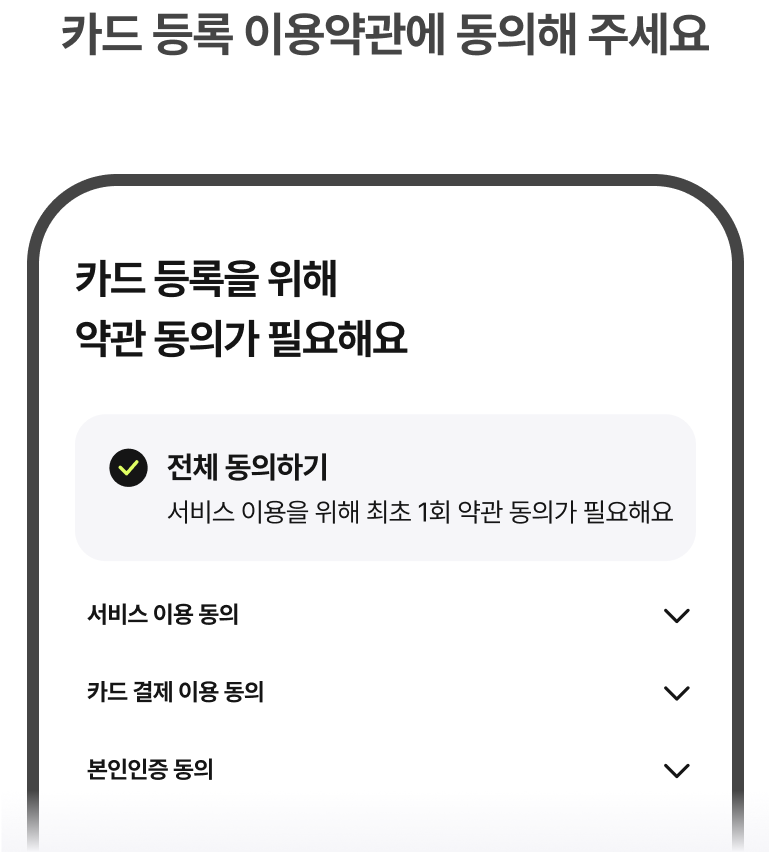
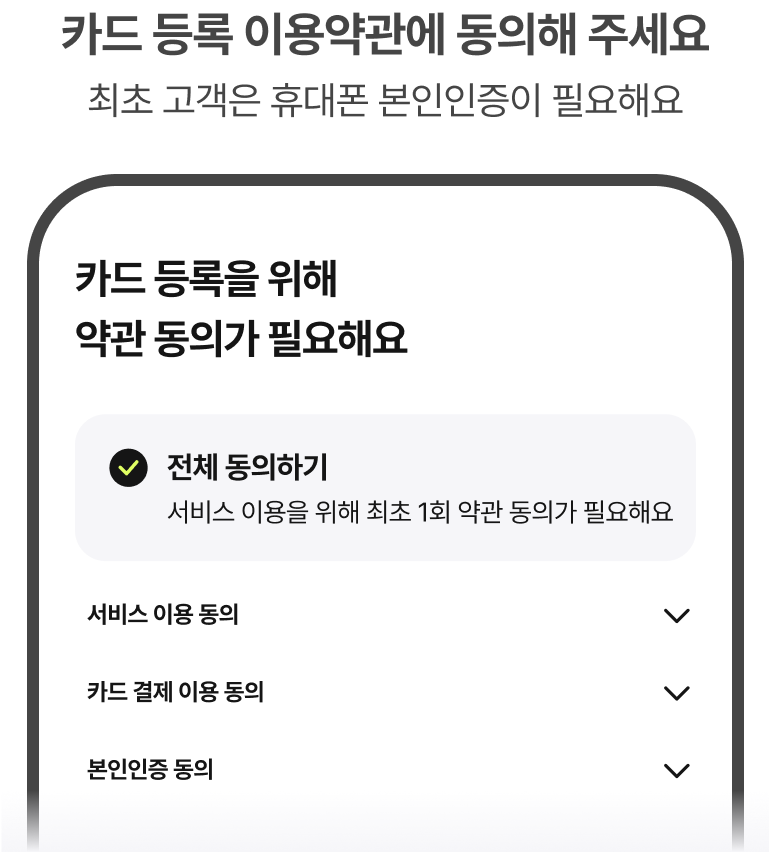
결제수단 등록 유도 프로모션 추가

Changed region(s): [[0.2185, 0.0938, 0.9051, 0.1562], [0.1248, 0.0938, 0.1873, 0.1562]]

diff --git a/apps/010pay/010pay-payment/css/promotion.css b/apps/010pay/010pay-payment/css/promotion.css
@@ -349,6 +349,7 @@
 
 .section {
   text-align: center;
+  overflow: visible;
 }
 .section .title {
   font-family: Pretendard;
@@ -1060,22 +1061,100 @@
   display: none;
 }
 #wrap.rroundPaymentReg .headline {
+  position: relative;
   margin: 0 auto;
   height: 530px;
   background: url(../images/promotion/rroundPaymentReg/main.png) no-repeat
     center / cover;
   text-align: center;
   padding-top: 60px;
+  overflow: hidden;
+}
+#wrap.rroundPaymentReg .headline::before {
+  content: "";
+  display: block;
+  position: absolute;
+  top: 160px;
+  left: 50%;
+  width: 90px;
+  height: 112px;
+  background: url(../images/promotion/rroundPaymentReg/main_bg_01.png) no-repeat
+    center / contain;
+    transform: translateX(-50%);
+    margin-left: 170px;
+}
+#wrap.rroundPaymentReg .headline::after {
+  content: "";
+  display: block;
+  position: absolute;
+  top: 266px;
+  left: 50%;
+  width: 70px;
+  height: 70px;
+  background: url(../images/promotion/rroundPaymentReg/main_bg_02.png) no-repeat center / contain;
+  transform: translateX(-50%);
+  margin-left: -170px;
 }
 #wrap.rroundPaymentReg #content,
 #wrap.rroundPaymentReg .sec {
   background: #030704;
 }
 #wrap.rroundPaymentReg .sec {
+  position: relative;
   padding: 40px 0;
+  overflow: hidden;
 }
 #wrap.rroundPaymentReg .sec:last-of-type {
   padding-bottom: 80px;
+}
+#wrap.rroundPaymentReg .section::before {  
+  content: "";
+  display: block;
+  position: absolute;
+  top: 977px;
+  left: 50%;
+  transform: translateX(-50%);
+  width: 121px;
+  height: 121px;
+  background: url(../images/promotion/rroundPaymentReg/sec01_bg_01.png) no-repeat center / contain;
+  margin-left: -170px;
+  z-index: 1;
+}
+#wrap.rroundPaymentReg .sec-1::after {  
+  content: "";
+  display: block;
+  position: absolute;
+  top: 125px;
+  right: 0;
+  width: 114px;
+  height: 118px;
+  background: url(../images/promotion/rroundPaymentReg/main_bg_01.png) no-repeat center / contain;
+  right: auto;
+  left: 50%;
+  transform: translateX(100px);
+}
+#wrap.rroundPaymentReg .sec-2::after {  
+  content: "";
+  display: block;
+  position: absolute;
+  top: 0px;
+  left: 0;
+  width: 248px;
+  height: 558px;
+  background: url(../images/promotion/rroundPaymentReg/sec02_bg_01.png) no-repeat center / contain;
+  z-index: -1;
+}
+#wrap.rroundPaymentReg .sec-3::after {  
+  content: "";
+  display: block;
+  position: absolute;
+  top: 0px;
+  left: 50%;
+  transform: translateX(-50%);
+  width: 100%;
+  height: 243px;
+  background: url(../images/promotion/rroundPaymentReg/sec03_bg_01.png) no-repeat center / contain;
+  z-index: -1;
 }
 #wrap.rroundPaymentReg .tab-scroll-wrap {
   overflow-x: auto;
@@ -1083,11 +1162,18 @@
   top: 0;
   z-index: 10;
   background: #3d3d3d;
+  width: 100%;
+  left: 0;
+  right: 0;
+  -webkit-transform: translateZ(0);
+  transform: translateZ(0);
 }
 #wrap.rroundPaymentReg .tab-buttons {
   display: inline-flex;
   min-width: max-content;
   width: 100%;
+  max-width: 343px;
+  margin: 0 auto;
   justify-content: space-around;
 }
 #wrap.rroundPaymentReg .tab-btn.on {
@@ -1140,11 +1226,29 @@
   margin-top: 8px;
 }
 #wrap.rroundPaymentReg .benefit-container {
+  overflow: hidden;
+  position: relative;
+  z-index: 1;
   background: rgba(148, 148, 148, 0.2);
   border-radius: 24px;
   padding: 32px 20px;
   width: calc(100% - 32px);
   max-width: 343px;
+
+}
+#wrap.rroundPaymentReg .benefit-container::after {
+  content: "";
+  position: absolute;
+  inset: 0;
+  border-radius: 24px;
+  padding: 1px; /* 보더 두께 */
+  background: linear-gradient(132.22deg, #B0B0B0 -2.47%, #4A4A4A 25.35%);
+  -webkit-mask: 
+    linear-gradient(#fff 0 0) content-box, 
+    linear-gradient(#fff 0 0);
+  -webkit-mask-composite: xor;
+          mask-composite: exclude;
+  pointer-events: none;
 }
 #wrap.rroundPaymentReg .benefit-list {
   display: flex;
@@ -1179,8 +1283,9 @@
 #wrap.rroundPaymentReg .benefit-item-text {
   font-family: Pretendard;
   font-weight: 700;
-  font-size: 14px;
+  font-size: 16px;
   line-height: 140%;
+  text-align: center;
   color: #fff;
 }
 #wrap.rroundPaymentReg .table-note {
@@ -1214,6 +1319,7 @@
 }
 
 #wrap.rroundPaymentReg .service-item {
+  position: relative;
   display: flex;
   align-items: center;
   background: rgba(148, 148, 148, 0.2);
@@ -1222,7 +1328,18 @@
   gap: 10px;
   width: 100%;
 }
-
+#wrap.rroundPaymentReg .service-item::after {
+content: "";
+    position: absolute;
+    inset: 0;
+    border-radius: 24px;
+    padding: 1px;
+    background: linear-gradient(132.22deg, #B0B0B0 -2.47%, #4A4A4A 25.35%);
+    -webkit-mask: linear-gradient(#fff 0 0) content-box, linear-gradient(#fff 0 0);
+    -webkit-mask-composite: xor;
+    mask-composite: exclude;
+    pointer-events: none;
+}
 #wrap.rroundPaymentReg .service-item-img {
   width: 70px;
   height: 70px;
@@ -1307,5 +1424,12 @@
 }
 #wrap.rroundPaymentReg .sec-3 .swiper-pagination-bullets.swiper-pagination-horizontal {
   bottom: 180px;
+}
+@media all and (max-width: 321px) {
+  .swiper-container .swiper-slide img {
+    max-width: 248px;
+    width: 100% !important;
+    height: auto !important;
+  }
 }
 /* //rroundPaymentReg */

diff --git a/apps/010pay/010pay-payment/html/pay/promotion/rroundPaymentReg/index.html b/apps/010pay/010pay-payment/html/pay/promotion/rroundPaymentReg/index.html
@@ -59,7 +59,7 @@
                   혜택 안내
                 </button>
                 <button type="button" data-target="sec-1" class="tab-btn">
-                  서비스 결제
+                  서비스 안내
                 </button>
                 <button type="button" data-target="sec-2" class="tab-btn">
                   계좌 등록
@@ -72,8 +72,8 @@
             <div class="sec sec-0 scroll-fade-up" id="sec-0">
               <span class="label">혜택 안내</span>
               <p class="title">
-                라운드페이에 계좌 · 카드<br />
-                연속 등록하면 로또 10장 드려요
+                라운드페이에 <strong>계좌 · 카드</strong><br />
+                <strong>연속 등록하면 로또 10장</strong> 드려요
               </p>
               <div>
                 <div class="benefit-container">
@@ -219,28 +219,28 @@
                   <div class="swiper-wrapper">
                     <div class="swiper-slide">
                       <img
-                        src="../../../../images/promotion/rroundPaymentReg/sec2-slide-01.png"
-                        alt="계좌 등록을 눌러주세요"
+                        src="../../../../images/promotion/rroundPaymentReg/sec3-slide-01.png"
+                        alt="카드 등록을 눌러주세요"
                         class=""
                       />
                     </div>
                     <div class="swiper-slide">
                       <img
-                        src="../../../../images/promotion/rroundPaymentReg/sec2-slide-02.png"
-                        alt="카드 등록 이용약관에 동의해 주세요"
+                        src="../../../../images/promotion/rroundPaymentReg/sec3-slide-02.png"
+                        alt="카드 등록 이용약관에 동의해 주세요 최초 고객은 휴대폰 본인인증이 필요해요"
                         class=""
                       />
                     </div>
                     <div class="swiper-slide">
                       <img
-                        src="../../../../images/promotion/rroundPaymentReg/sec2-slide-03.png"
-                        alt="내카드 정보를 입력해 주세요 최초 고객은 휴대폰 본인인증이 필요해요"
+                        src="../../../../images/promotion/rroundPaymentReg/sec3-slide-03.png"
+                        alt="내카드 정보를 입력해 주세요"
                         class=""
                       />
                     </div>
                     <div class="swiper-slide">
                       <img
-                        src="../../../../images/promotion/rroundPaymentReg/sec2-slide-04.png"
+                        src="../../../../images/promotion/rroundPaymentReg/sec3-slide-04.png"
                         alt="이어서 계좌를 등록해 주세요"
                         class=""
                       />
@@ -335,6 +335,31 @@
 
       targets.forEach((target) => observer.observe(target));
 
+      // 스크롤 위치에 따른 탭 버튼 활성화
+      function updateActiveTab() {
+        const sections = document.querySelectorAll('.sec');
+        const tabButtons = document.querySelectorAll('.tab-btn');
+        const scrollPosition = window.scrollY + 100; // 100px 오프셋
+
+        sections.forEach((section, index) => {
+          const sectionTop = section.offsetTop;
+          const sectionBottom = sectionTop + section.offsetHeight;
+          
+          if (scrollPosition >= sectionTop && scrollPosition < sectionBottom) {
+            // 모든 탭 버튼에서 on 클래스 제거
+            tabButtons.forEach(btn => btn.classList.remove('on'));
+            // 해당 섹션의 탭 버튼에 on 클래스 추가
+            const targetTab = document.querySelector(`[data-target="sec-${index}"]`);
+            if (targetTab) {
+              targetTab.classList.add('on');
+            }
+          }
+        });
+      }
+
+      // 스크롤 이벤트 리스너 추가
+      window.addEventListener('scroll', updateActiveTab);
+
       // 탭 클릭시 이동
       document.querySelectorAll(".tab-btn").forEach((btn) => {
         btn.addEventListener("click", function () {
@@ -350,7 +375,7 @@
           if (targetEl) {
             const offsetTop = targetEl.offsetTop;
             window.scrollTo({
-              top: offsetTop + 22, // 상단 여백 보정 (헤더 높이 등)
+              top: offsetTop - 8,
               behavior: "smooth",
             });
           }
